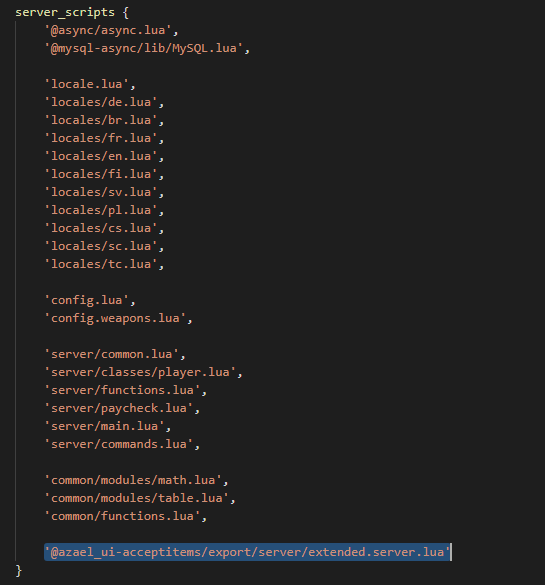
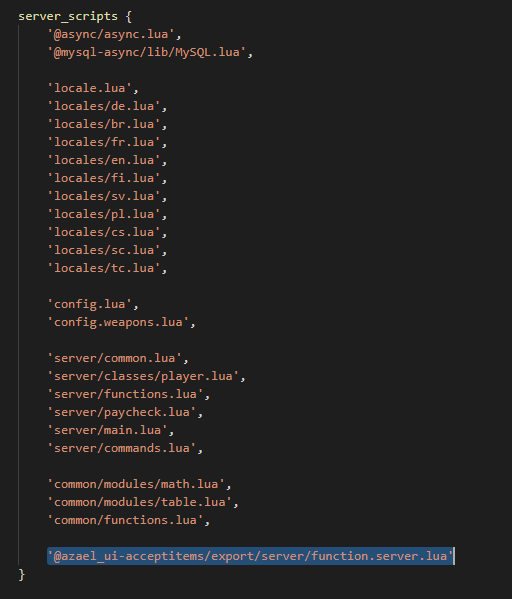
azael_ui-acceptitems (1.0.2)

diff --git a/content/docs/azael_ui-acceptitems/config.md b/content/docs/azael_ui-acceptitems/config.md
@@ -188,15 +188,8 @@ AZAEL.CLIENT.CONFIG.Events = {
 
 ```js
 AZAEL.CLIENT.CONFIG.Messages = {
-    DrawText: {
-        Enable: true,
-        Font: 'sarabun',
-        Size: 0.4,
-        Position: {
-            X: 0.5,
-            Y: 0.8
-        },
-        Text: 'ยกเลิกโดยอัตโนมัติ ใน ~y~ %TIME% ~s~ วินาที'
+    UI: {
+        Enable: true
     },
 
     ESX: {
@@ -245,14 +238,8 @@ AZAEL.CLIENT.CONFIG.Messages = {
 };
 ```
 
-- **DrawText** = เเสดงข้อความนับถอยหลัง สำหรับ ผู้ส่ง
+- **UI** = เเสดงข้อความนับถอยหลัง สำหรับ ผู้ส่ง
     - **Enable** = เปิดใช้งาน เเสดงข้อความนับถอยหลัง สำหรับ ผู้ส่ง
-    - **Font** = แบบ อักษร (โฟลเดอร์ `stream`)
-    - **Size** = ขนาด อักษร
-    - **Position** = ตำแหน่ง ข้อความ
-        - **X** = ตำแหน่ง X
-        - **Y** = ตำแหน่ง Y
-    - **Text** = ข้อความ DrawText
 - **ESX** = เเจ้งเตือน ESX Framework
     - **Text** = ข้อความ
         - **Requester** = ข้อความ ผู้ส่ง
@@ -271,35 +258,6 @@ AZAEL.CLIENT.CONFIG.Messages = {
 1000 มิลลิวินาที มีค่าเท่ากับ 1 วินาที<br>
 **true** เท่ากับ เปิดใช้งาน | **false** เท่ากับ ปิดใช้งาน<br>
 หากเปิดใช้งานการเเจ้งเตือน pNotify ระบบจะปิดใช้งานการแแจ้งเตือน ESX โดยทันที
-{{% /alert %}}
-
-### `Controls`
-
-การควบคุม ในขณะที่เเสดงกล่องข้อความ UI
-
-```js
-AZAEL.CLIENT.CONFIG.Controls = { 
-    Enable: true,
-
-    List: {
-        0: {
-            Group: 0,
-            Control: 249,
-            Enable: true
-        }
-    }
-};
-```
-
-- **Enable** = เปิดใช้งาน การควบคุม ในขณะที่เล่นภาพเคลื่อนไหว
-- **List** = รายการ
-    - **Group** = รหัส กลุ่ม
-    - **Control** = รหัส การควบคุม
-    - **Enable** = เปิดใช้งาน ปิดการควบคุม
-
-{{% alert theme="info" %}}
-**true** เท่ากับ เปิดใช้งาน | **false** เท่ากับ ปิดใช้งาน<br>
-สามารถดูรหัส การควบคุม ได้ที่ [FiveM Controls](https://docs.fivem.net/docs/game-references/controls/#controls)
 {{% /alert %}}
 
 ### `Locations`

diff --git a/content/docs/azael_ui-acceptitems/installation.md b/content/docs/azael_ui-acceptitems/installation.md
@@ -31,7 +31,7 @@ server_scripts
 เพิ่มรหัสนี้ไว้ด้านล่าง
 
 ```lua
-'@azael_ui-acceptitems/export/server/extended.server.lua'
+'@azael_ui-acceptitems/export/server/function.server.lua'
 ```
 
 ![Export es_extended](/resources/azael_ui-acceptitems/export_es_extended.png "Export es_extended")
@@ -55,7 +55,7 @@ server_scripts
 เพิ่มรหัสนี้ไว้ด้านล่าง
 
 ```lua
-'@azael_ui-acceptitems/export/server/inventory.server.lua'
+'@azael_ui-acceptitems/export/server/function.server.lua'
 ```
 
 ![Export esx_inventoryhud](/resources/azael_ui-acceptitems/export_esx_inventoryhud.png "Export esx_inventoryhud")
